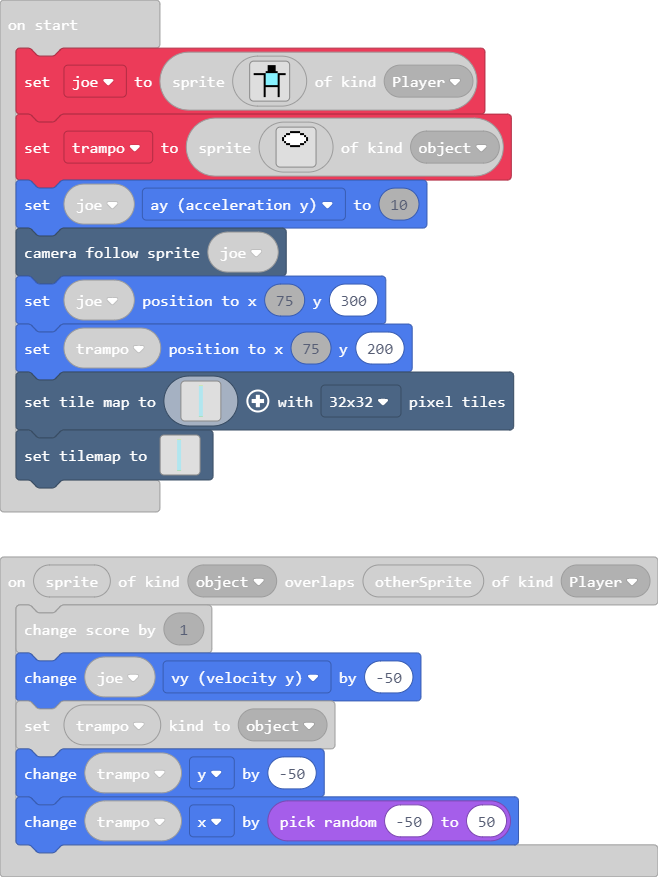
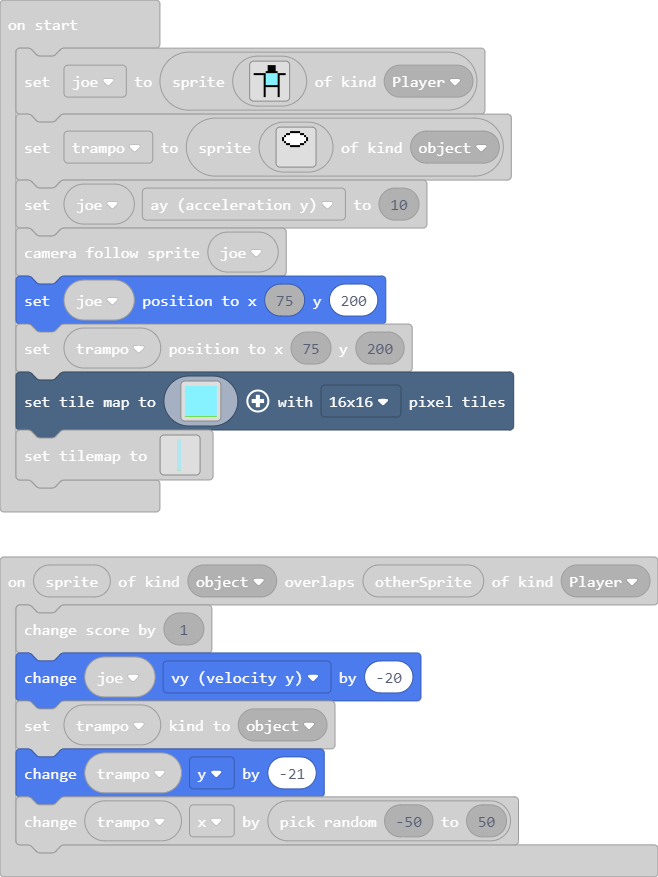
Update main.blocks, main.ts

Changed region(s): [[0.0, 0.0308, 0.7903, 0.3387], [0.0, 0.3694, 0.6383, 0.5542], [0.0, 0.862, 0.7903, 0.9852]]

diff --git a/main.ts b/main.ts
@@ -125,9 +125,9 @@ scene.onOverlapTile(SpriteKind.Player, myTiles.tile4, function (sprite, location
 })
 sprites.onOverlap(SpriteKind.object, SpriteKind.Player, function (sprite, otherSprite) {
     info.changeScoreBy(1)
-    joe.vy += -50
+    joe.vy += -20
     trampo.setKind(SpriteKind.object)
-    trampo.y += -50
+    trampo.y += -21
     trampo.x += Math.randomRange(-50, 50)
 })
 let trampo: Sprite = null
@@ -170,74 +170,42 @@ trampo = sprites.create(img`
 `, SpriteKind.object)
 joe.ay = 10
 scene.cameraFollowSprite(joe)
-joe.setPosition(75, 300)
+joe.setPosition(75, 200)
 trampo.setPosition(75, 200)
 scene.setTileMap(img`
-5 5 5 5 5 5 5 5 
-9 9 9 9 9 9 9 9 
-9 9 9 9 9 9 9 9 
-9 9 9 9 9 9 9 9 
-9 9 9 9 9 9 9 9 
-9 9 9 9 9 9 9 9 
-9 9 9 9 9 9 9 9 
-9 9 9 9 9 9 9 9 
-9 9 9 9 9 9 9 9 
-9 9 9 9 9 9 9 9 
-9 9 9 9 9 9 9 9 
-9 9 9 9 9 9 9 9 
-9 9 9 9 9 9 9 9 
-9 9 9 9 9 9 9 9 
-9 9 9 9 9 9 9 9 
-9 9 9 9 9 9 9 9 
-9 9 9 9 9 9 9 9 
-9 9 9 9 9 9 9 9 
-9 9 9 9 9 9 9 9 
-9 9 9 9 9 9 9 9 
-9 9 9 9 9 9 9 9 
-9 9 9 9 9 9 9 9 
-9 9 9 9 9 9 9 9 
-9 9 9 9 9 9 9 9 
-9 9 9 9 9 9 9 9 
-9 9 9 9 9 9 9 9 
-9 9 9 9 9 9 9 9 
-9 9 9 9 9 9 9 9 
-9 9 9 9 9 9 9 9 
-9 9 9 9 9 9 9 9 
-9 9 9 9 9 9 9 9 
-9 9 9 9 9 9 9 9 
-9 9 9 9 9 9 9 9 
-9 9 9 9 9 9 9 9 
-9 9 9 9 9 9 9 9 
-9 9 9 9 9 9 9 9 
-9 9 9 9 9 9 9 9 
-9 9 9 9 9 9 9 9 
-9 9 9 9 9 9 9 9 
-9 9 9 9 9 9 9 9 
-9 9 9 9 9 9 9 9 
-9 9 9 9 9 9 9 9 
-9 9 9 9 9 9 9 9 
-9 9 9 9 9 9 9 9 
-9 9 9 9 9 9 9 9 
-9 9 9 9 9 9 9 9 
-9 9 9 9 9 9 9 9 
-9 9 9 9 9 9 9 9 
-9 9 9 9 9 9 9 9 
-9 9 9 9 9 9 9 9 
-9 9 9 9 9 9 9 9 
-9 9 9 9 9 9 9 9 
-9 9 9 9 9 9 9 9 
-9 9 9 9 9 9 9 9 
-9 9 9 9 9 9 9 9 
-9 9 9 9 9 9 9 9 
-9 9 9 9 9 9 9 9 
-9 9 9 9 9 9 9 9 
-9 9 9 9 9 9 9 9 
-9 9 9 9 9 9 9 9 
-9 9 9 9 9 9 9 9 
-9 9 9 9 9 9 9 9 
-9 9 9 9 9 9 9 9 
-7 7 7 7 7 7 7 7 
-`, TileScale.ThirtyTwo)
+5 5 5 5 5 5 5 5 5 5 5 5 5 5 5 5 5 5 5 5 5 5 5 5 5 5 5 5 5 5 5 5 
+9 9 9 9 9 9 9 9 9 9 9 9 9 9 9 9 9 9 9 9 9 9 9 9 9 9 9 9 9 9 9 9 
+9 9 9 9 9 9 9 9 9 9 9 9 9 9 9 9 9 9 9 9 9 9 9 9 9 9 9 9 9 9 9 9 
+9 9 9 9 9 9 9 9 9 9 9 9 9 9 9 9 9 9 9 9 9 9 9 9 9 9 9 9 9 9 9 9 
+9 9 9 9 9 9 9 9 9 9 9 9 9 9 9 9 9 9 9 9 9 9 9 9 9 9 9 9 9 9 9 9 
+9 9 9 9 9 9 9 9 9 9 9 9 9 9 9 9 9 9 9 9 9 9 9 9 9 9 9 9 9 9 9 9 
+9 9 9 9 9 9 9 9 9 9 9 9 9 9 9 9 9 9 9 9 9 9 9 9 9 9 9 9 9 9 9 9 
+9 9 9 9 9 9 9 9 9 9 9 9 9 9 9 9 9 9 9 9 9 9 9 9 9 9 9 9 9 9 9 9 
+9 9 9 9 9 9 9 9 9 9 9 9 9 9 9 9 9 9 9 9 9 9 9 9 9 9 9 9 9 9 9 9 
+9 9 9 9 9 9 9 9 9 9 9 9 9 9 9 9 9 9 9 9 9 9 9 9 9 9 9 9 9 9 9 9 
+9 9 9 9 9 9 9 9 9 9 9 9 9 9 9 9 9 9 9 9 9 9 9 9 9 9 9 9 9 9 9 9 
+9 9 9 9 9 9 9 9 9 9 9 9 9 9 9 9 9 9 9 9 9 9 9 9 9 9 9 9 9 9 9 9 
+9 9 9 9 9 9 9 9 9 9 9 9 9 9 9 9 9 9 9 9 9 9 9 9 9 9 9 9 9 9 9 9 
+9 9 9 9 9 9 9 9 9 9 9 9 9 9 9 9 9 9 9 9 9 9 9 9 9 9 9 9 9 9 9 9 
+9 9 9 9 9 9 9 9 9 9 9 9 9 9 9 9 9 9 9 9 9 9 9 9 9 9 9 9 9 9 9 9 
+9 9 9 9 9 9 9 9 9 9 9 9 9 9 9 9 9 9 9 9 9 9 9 9 9 9 9 9 9 9 9 9 
+9 9 9 9 9 9 9 9 9 9 9 9 9 9 9 9 9 9 9 9 9 9 9 9 9 9 9 9 9 9 9 9 
+9 9 9 9 9 9 9 9 9 9 9 9 9 9 9 9 9 9 9 9 9 9 9 9 9 9 9 9 9 9 9 9 
+9 9 9 9 9 9 9 9 9 9 9 9 9 9 9 9 9 9 9 9 9 9 9 9 9 9 9 9 9 9 9 9 
+9 9 9 9 9 9 9 9 9 9 9 9 9 9 9 9 9 9 9 9 9 9 9 9 9 9 9 9 9 9 9 9 
+9 9 9 9 9 9 9 9 9 9 9 9 9 9 9 9 9 9 9 9 9 9 9 9 9 9 9 9 9 9 9 9 
+9 9 9 9 9 9 9 9 9 9 9 9 9 9 9 9 9 9 9 9 9 9 9 9 9 9 9 9 9 9 9 9 
+9 9 9 9 9 9 9 9 9 9 9 9 9 9 9 9 9 9 9 9 9 9 9 9 9 9 9 9 9 9 9 9 
+9 9 9 9 9 9 9 9 9 9 9 9 9 9 9 9 9 9 9 9 9 9 9 9 9 9 9 9 9 9 9 9 
+9 9 9 9 9 9 9 9 9 9 9 9 9 9 9 9 9 9 9 9 9 9 9 9 9 9 9 9 9 9 9 9 
+9 9 9 9 9 9 9 9 9 9 9 9 9 9 9 9 9 9 9 9 9 9 9 9 9 9 9 9 9 9 9 9 
+9 9 9 9 9 9 9 9 9 9 9 9 9 9 9 9 9 9 9 9 9 9 9 9 9 9 9 9 9 9 9 9 
+9 9 9 9 9 9 9 9 9 9 9 9 9 9 9 9 9 9 9 9 9 9 9 9 9 9 9 9 9 9 9 9 
+9 9 9 9 9 9 9 9 9 9 9 9 9 9 9 9 9 9 9 9 9 9 9 9 9 9 9 9 9 9 9 9 
+9 9 9 9 9 9 9 9 9 9 9 9 9 9 9 9 9 9 9 9 9 9 9 9 9 9 9 9 9 9 9 9 
+9 9 9 9 9 9 9 9 9 9 9 9 9 9 9 9 9 9 9 9 9 9 9 9 9 9 9 9 9 9 9 9 
+7 7 7 7 7 7 7 7 7 7 7 7 7 7 7 7 7 7 7 7 7 7 7 7 7 7 7 7 7 7 7 7 
+`, TileScale.Sixteen)
 tiles.setTilemap(tiles.createTilemap(
[1 lines of base64/hex data omitted]
             img`
